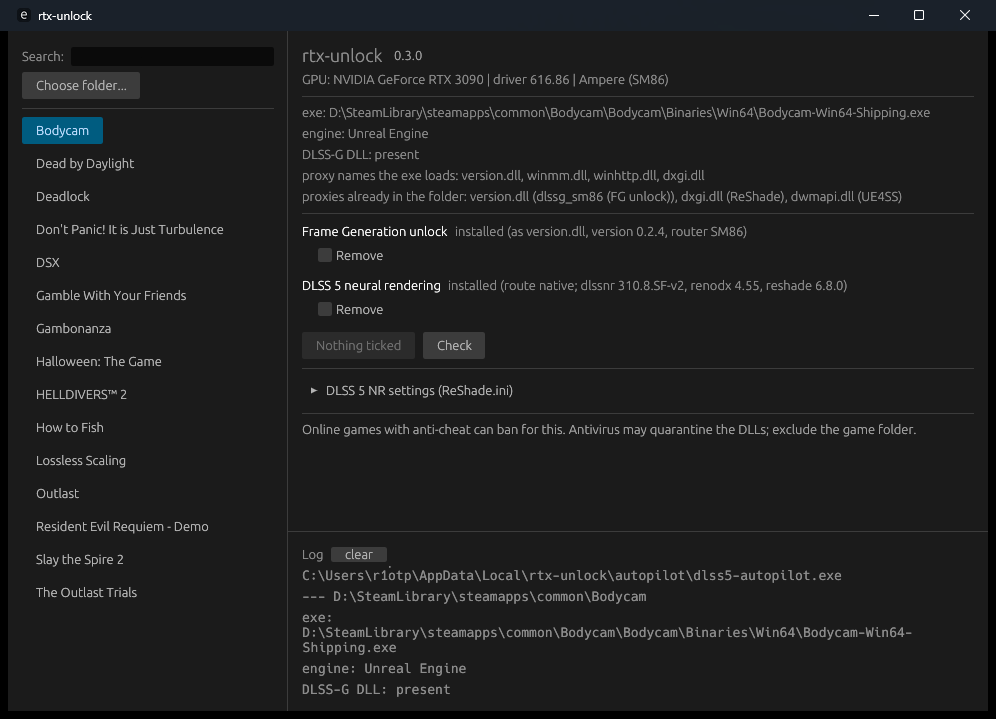
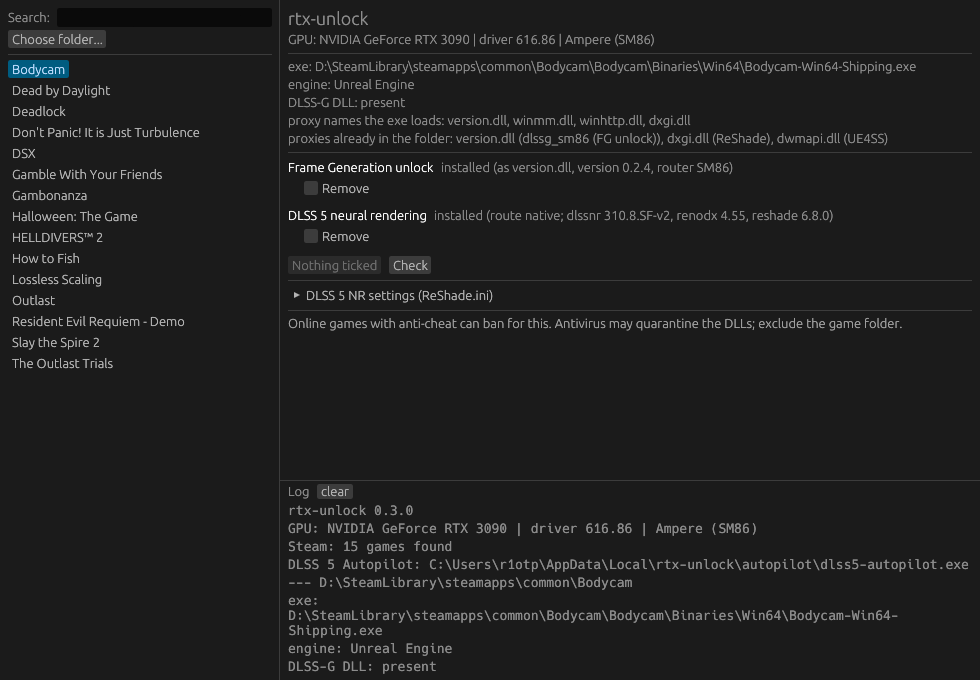
Keep the original layout; screenshot of the client area only

Changed region(s): [[0.0, 0.0, 1.0, 1.0], [0.3061, 0.5868, 0.9184, 0.6176], [0.949, 0.0, 0.9796, 0.0309]]

diff --git a/src/app.rs b/src/app.rs
@@ -74,12 +74,7 @@ pub struct App {
 }
 
 impl App {
-    pub fn new(cc: &eframe::CreationContext<'_>) -> Self {
-        let mut style = (*cc.egui_ctx.style()).clone();
-        style.spacing.item_spacing = egui::vec2(8.0, 6.0);
-        style.spacing.button_padding = egui::vec2(14.0, 6.0);
-        style.spacing.indent = 24.0;
-        cc.egui_ctx.set_style(style);
+    pub fn new(_cc: &eframe::CreationContext<'_>) -> Self {
         let (games, steam_error) = match steam::scan() {
             Ok(g) => (g, None),
             Err(e) => (Vec::new(), Some(e)),
@@ -468,8 +463,6 @@ impl eframe::App for App {
         }
 
         let mut pick: Option<PathBuf> = None;
-        let margin = egui::Margin::same(14);
-
         let mut do_update = false;
         let banner = match &self.update {
             UpdateState::Available(r) => Some((format!("Version {} is available.", r.version), true)),
@@ -478,9 +471,7 @@ impl eframe::App for App {
             _ => None,
         };
         if let Some((text, offer)) = banner {
-            egui::TopBottomPanel::top("update")
-                .frame(egui::Frame::side_top_panel(&ctx.style()).inner_margin(egui::Margin::symmetric(14, 8)))
-                .show(ctx, |ui| {
+            egui::TopBottomPanel::top("update").show(ctx, |ui| {
                     ui.horizontal(|ui| {
                         ui.label(text);
                         if offer && ui.add_enabled(!self.busy, egui::Button::new("Update now")).clicked() {
@@ -490,11 +481,8 @@ impl eframe::App for App {
                 });
         }
 
-        egui::SidePanel::left("games")
-            .min_width(280.0)
-            .frame(egui::Frame::side_top_panel(&ctx.style()).inner_margin(margin))
-            .show(ctx, |ui| {
-            ui.add_space(2.0);
+        egui::SidePanel::left("games").min_width(280.0).show(ctx, |ui| {
+            ui.add_space(6.0);
             ui.horizontal(|ui| {
                 ui.label("Search:");
                 ui.text_edit_singleline(&mut self.filter);
@@ -525,11 +513,7 @@ impl eframe::App for App {
             });
         });
 
-        egui::TopBottomPanel::bottom("log")
-            .min_height(180.0)
-            .resizable(true)
-            .frame(egui::Frame::side_top_panel(&ctx.style()).inner_margin(margin))
-            .show(ctx, |ui| {
+        egui::TopBottomPanel::bottom("log").min_height(200.0).resizable(true).show(ctx, |ui| {
             ui.horizontal(|ui| {
                 ui.label("Log");
                 if ui.small_button("clear").clicked() {
@@ -545,14 +529,8 @@ impl eframe::App for App {
 
         let mut action: Option<Action> = None;
         let mut nr_save = false;
-        egui::CentralPanel::default()
-            .frame(egui::Frame::central_panel(&ctx.style()).inner_margin(margin))
-            .show(ctx, |ui| {
-            ui.horizontal(|ui| {
-                ui.heading("rtx-unlock");
-                ui.add_space(4.0);
-                ui.colored_label(egui::Color32::GRAY, env!("CARGO_PKG_VERSION"));
-            });
+        egui::CentralPanel::default().show(ctx, |ui| {
+            ui.heading("rtx-unlock");
             match &self.gpu {
                 Ok(g) => {
                     ui.label(format!("GPU: {} | driver {} | {}", g.name, g.driver, g.class.label()));
